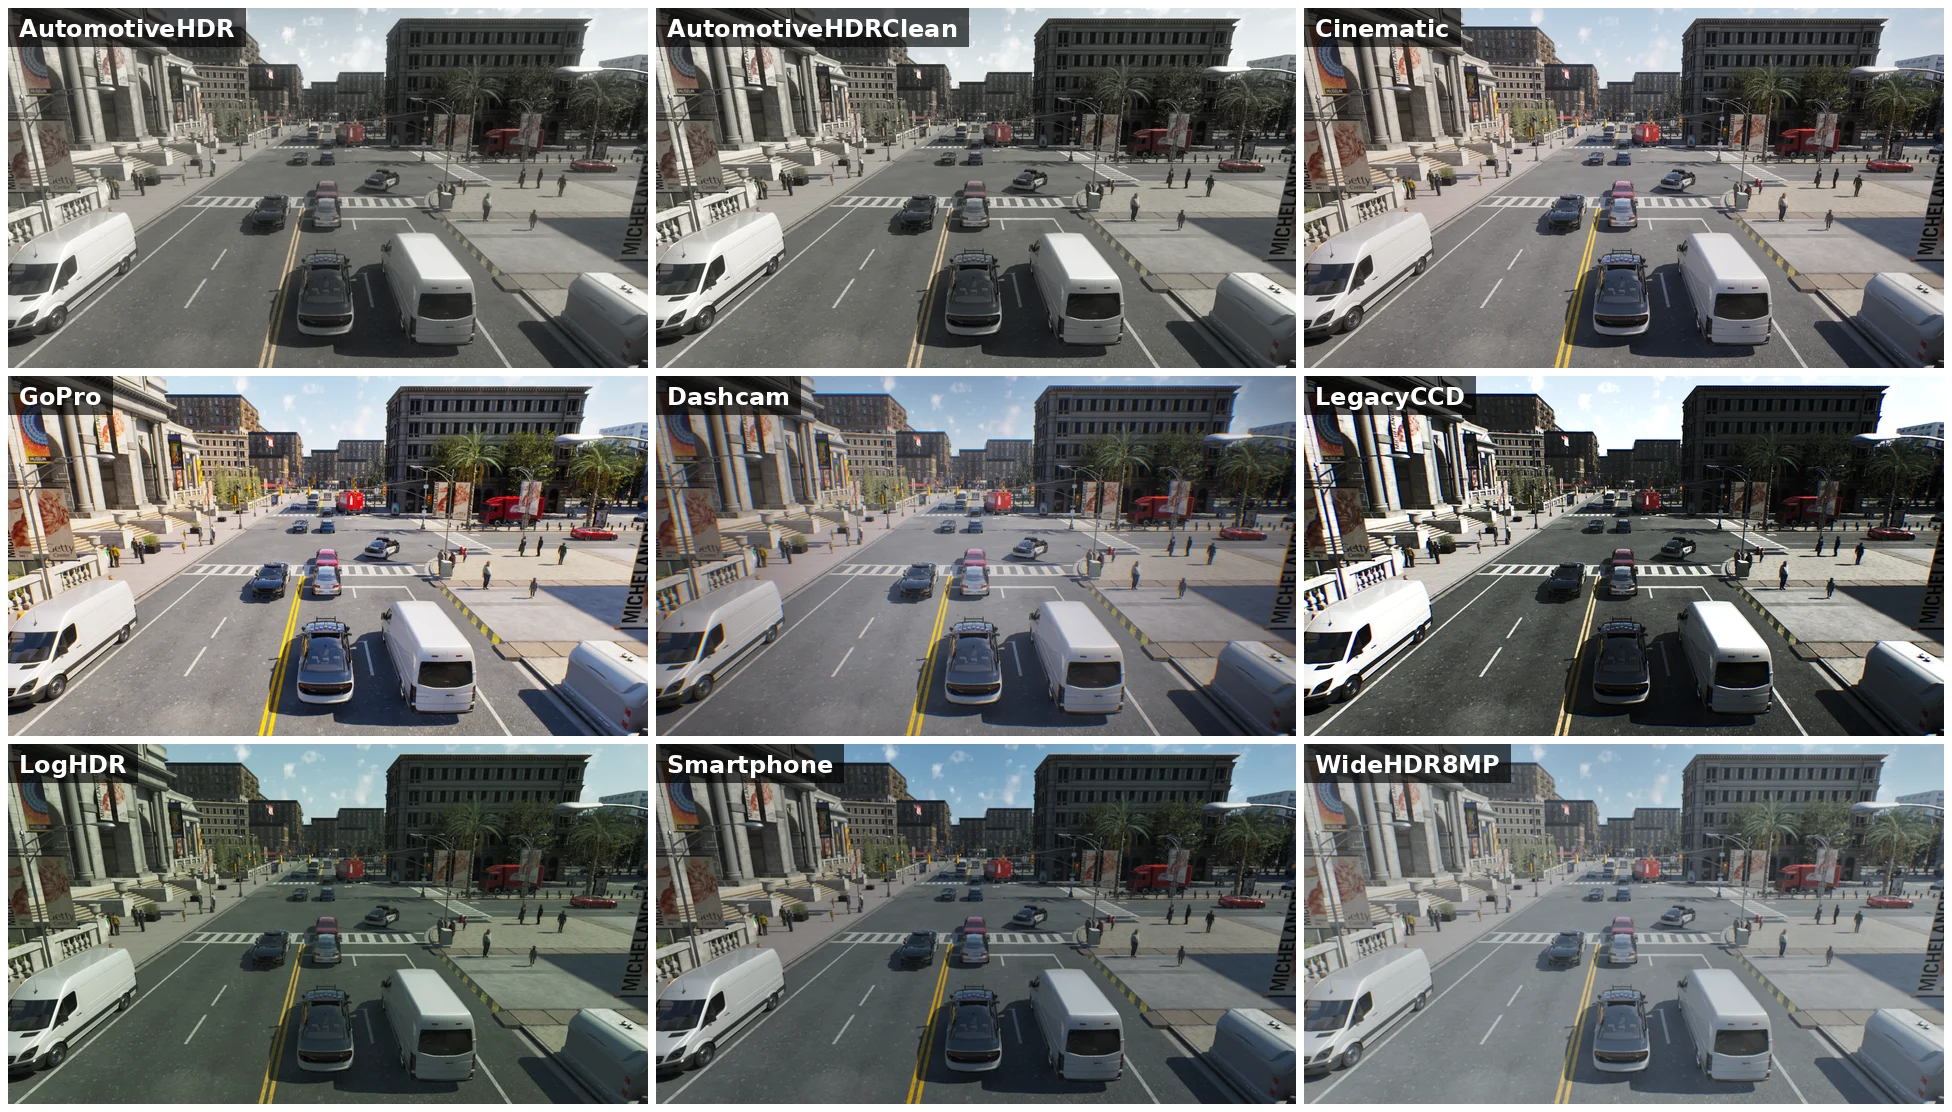
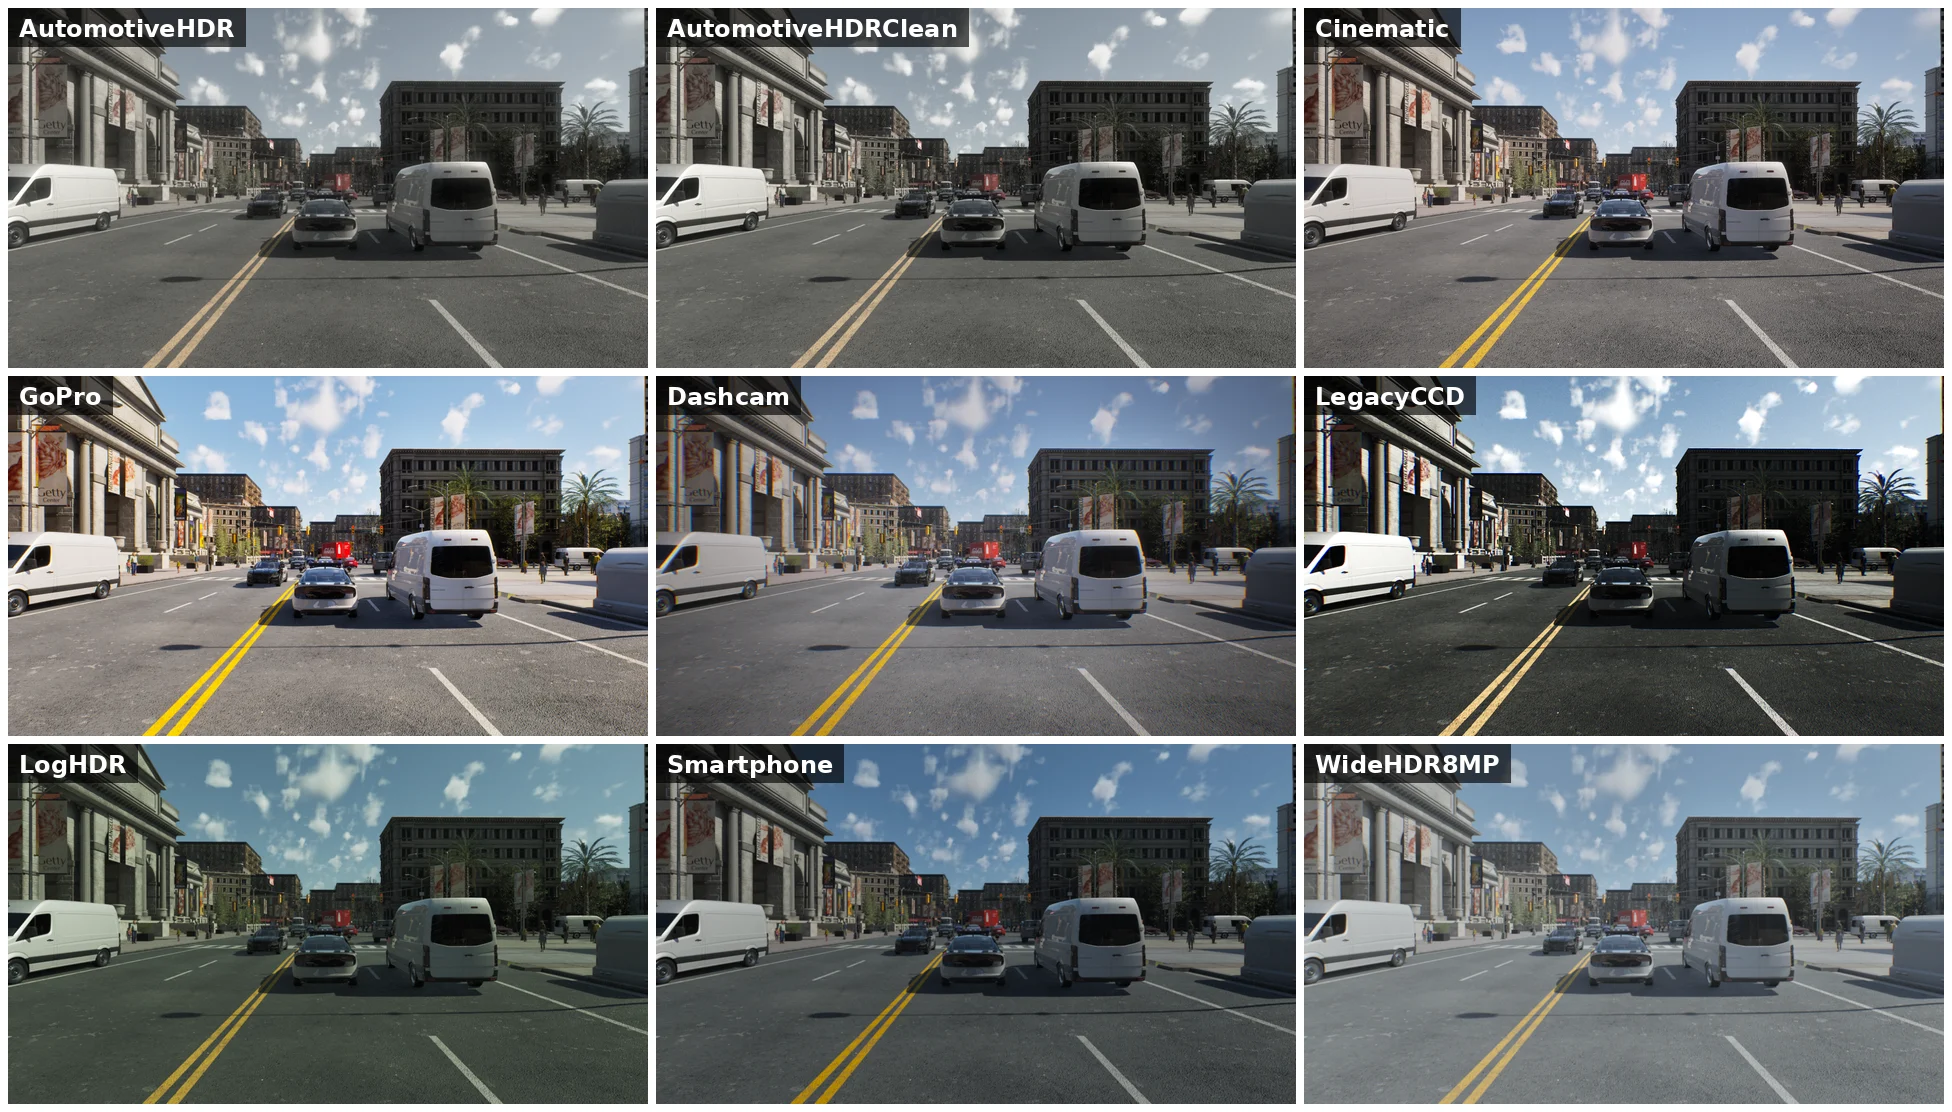
docs(camera presets): first-person comparison grids; no em dashes
- camera_profiles_* grids (Town10HD_Opt, Town15; ClearNoon, HardRainNoon, ClearSunset, ClearNight) and the
  camera_profiles_all slideshow re-rendered from a camera at the driver's eye height on the lane, looking ahead
  (looks.py --mode matrix, grids_matrix.py), instead of the raised view.
- Em dashes replaced in the page text.

diff --git a/Docs/core_camera_presets.md b/Docs/core_camera_presets.md
@@ -1,6 +1,6 @@
 # Camera post-process presets
 
-A camera's look — exposure, tonemapper, white balance, bloom, lens flare, noise — comes from a __post-process preset__, a JSON file the server loads by name. Nine presets ship with CARLA, each reproducing the camera of a public driving dataset, and a sensor picks one with its `post_process_profile` attribute.
+A camera's look (exposure, tonemapper, white balance, bloom, lens flare, noise) comes from a __post-process preset__, a JSON file the server loads by name. Nine presets ship with CARLA, each reproducing the camera of a public driving dataset, and a sensor picks one with its `post_process_profile` attribute.
 
 - [__Using post-process presets for the RGB camera sensor__](#using-post-process-presets-for-the-rgb-camera-sensor)
 - [__Presets shipped with CARLA__](#presets-shipped-with-carla)
@@ -43,7 +43,7 @@ Each automotive preset reproduces the look of the camera of a public driving dat
 | `Dashcam` | consumer dashcam | Bright and flat, vivid colour, neutral white balance, mild sharpening, strong vignette and fringing, light sensor grain. |
 
 
-The same Town10HD_Opt frame through the nine presets, at noon and at night. At night the automotive presets raise the gain and show sensor noise, and `AutomotiveHDR` adds its star-shaped flare around the lamps:
+The same Town10HD_Opt frame through the nine presets, from a camera at the driver's eye height, at noon and at night. At night the automotive presets raise the gain and show sensor noise, and `AutomotiveHDR` adds its star-shaped flare around the lamps:
 
 ![camera_profiles_clearnoon](img/core_camera_presets/camera_profiles_clearnoon_town10.webp)
 <div class="img-caption">The nine camera profiles on the same frame, ClearNoon.</div>
@@ -114,8 +114,8 @@ The automotive presets add camera artefacts on top of the grading:
 
 - __Sensor noise and optical softness.__ A post-process material, `M_SensorNoise` (in `Content/Carla/Blueprints/CameraProfiles`), blurs the image slightly (lens, demosaicing and ISP) and adds photon and read noise in linear light. The gain follows the camera's own auto exposure: once the exposure time reaches its cap the gain rises, so noise grows in the dark as on a real camera. `AutomotiveHDRClean`, `WideHDR8MP`, `LegacyCCD`, `LogHDR` and `Smartphone` each reference a material instance, `MI_SensorNoise_<Preset>`, with its own parameters (`Strength`, `BlurSigma`, `NoiseCell`, `ChromaScale`, `FullWell`, `ReadNoise`, `MaxExposureMs`); `AutomotiveHDR` uses `M_SensorNoise` itself, with its default values. `Cinematic`, `GoPro` and `Dashcam` have no sensor-noise material; the grain of `Dashcam` is Unreal's film grain. Remove the material from *Weighted Blendables* to turn both effects off.
 - __Lens flare.__ `AutomotiveHDR` and `AutomotiveHDRClean` use the convolution (FFT) bloom with a lens kernel, `Kernels/T_LensPSF_Star`, modelled on the nuScenes night frames: a soft halo and faint star spikes around bright lights. The other presets use the standard bloom.
-- __Small lights and temporal anti-aliasing.__ With TSR (the default anti-aliasing) distant or thin lights — small vehicle lamps, far street lights — lose most of their glow, because TSR blends each frame with the previous ones and flattens bright features of a few pixels before the bloom. A real camera has no such filter. FXAA (`r.AntiAliasingMethod 1`) keeps their glow at the cost of more aliasing, shimmer and moiré on foliage, fences and distant lines.
-- __Exposure-linked motion blur.__ Applies to every preset: see [RGB camera — exposure-linked motion blur](ref_sensors.md#exposure-linked-motion-blur).
+- __Small lights and temporal anti-aliasing.__ With TSR (the default anti-aliasing) distant or thin lights (small vehicle lamps, far street lights) lose most of their glow, because TSR blends each frame with the previous ones and flattens bright features of a few pixels before the bloom. A real camera has no such filter. FXAA (`r.AntiAliasingMethod 1`) keeps their glow at the cost of more aliasing, shimmer and moiré on foliage, fences and distant lines.
+- __Exposure-linked motion blur.__ Applies to every preset: see [RGB camera: exposure-linked motion blur](ref_sensors.md#exposure-linked-motion-blur).
 
 ---
 ## Creating, loading and saving presets
